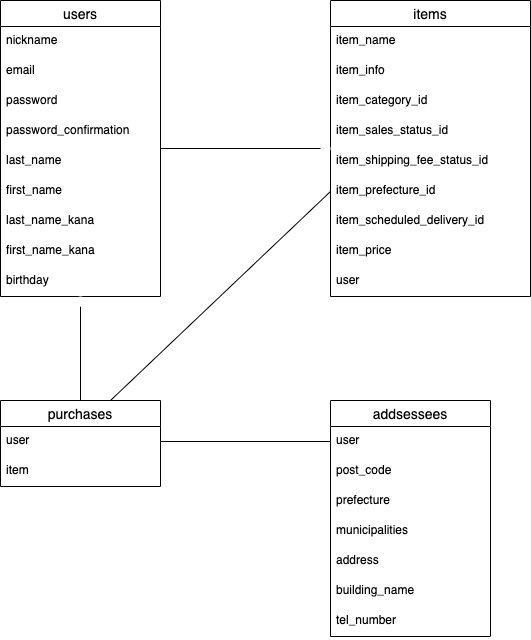
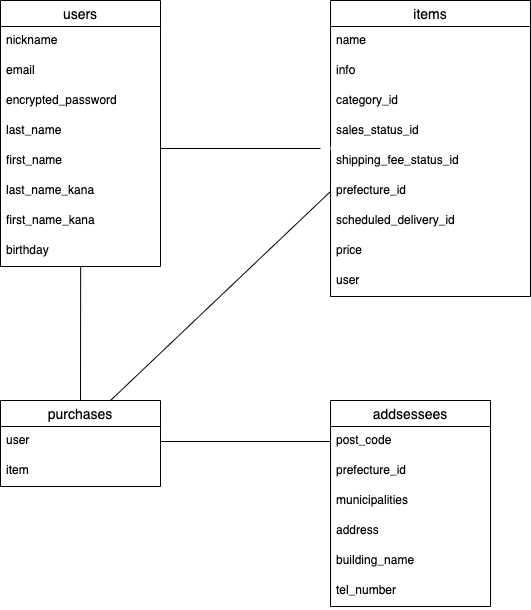
テーブル設計FB修正3

diff --git a/README.md b/README.md
@@ -2,14 +2,14 @@
 
 | Column                   | Type       | Options     |
 | ------------------------ | ---------- | ----------- |
-| item_name                | string     | null: false |
-| item_info                | text       | null: false |
-| item_category_id            | integer    | null: false |
-| item_sales_status_id        | integer    | null: false |
-| item_shipping_fee_status_id | integer    | null: false |
-| item_prefecture_id          | integer    | null: false |
-| item_scheduled_delivery_id  | integer    | null: false |
-| item_price               | integer       | null: false |
+| name                | string     | null: false |
+| info                | text       | null: false |
+| category_id            | integer    | null: false |
+| sales_status_id        | integer    | null: false |
+| shipping_fee_status_id | integer    | null: false |
+| prefecture_id          | integer    | null: false |
+| scheduled_delivery_id  | integer    | null: false |
+| price               | integer       | null: false |
 | user                     | references    | foreign_key: true |
 
 
@@ -56,10 +56,10 @@
 | ---------------- | ---------- | ------------------ |
 | post_code        | string     | null: false        |
 | prefecture_id    | integer    | null: false        |
-| municipalities   | text       | null: false        |
-| address          | text       | null: false        |
-| building_name    | text       | null: false        |
-| tel_number       | text       | null: false        |
+| municipalities   | string     | null: false        |
+| address          | string     | null: false        |
+| building_name    | string     | null: false        |
+| tel_number       | string     | null: false        |
 
 ### Association
-has_one :purchase
+belongs_to :purchase
